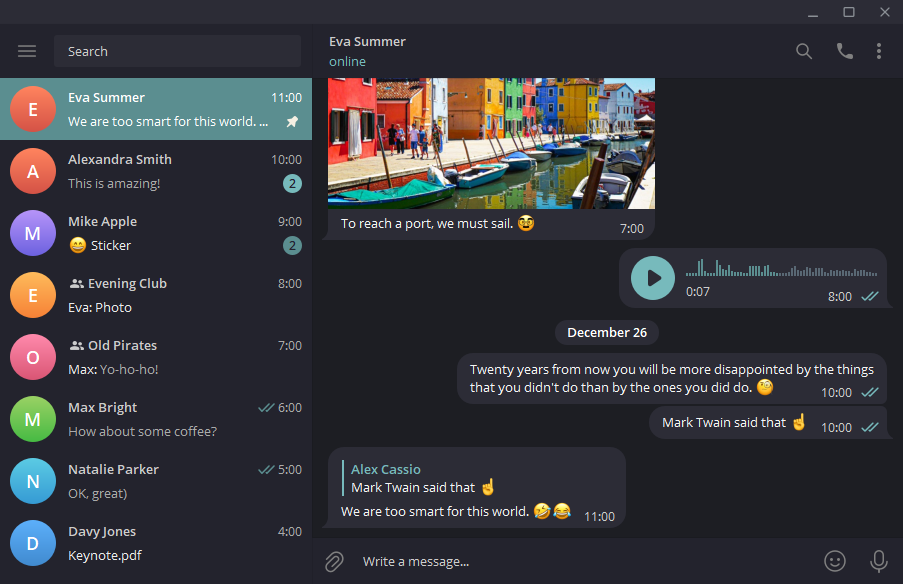
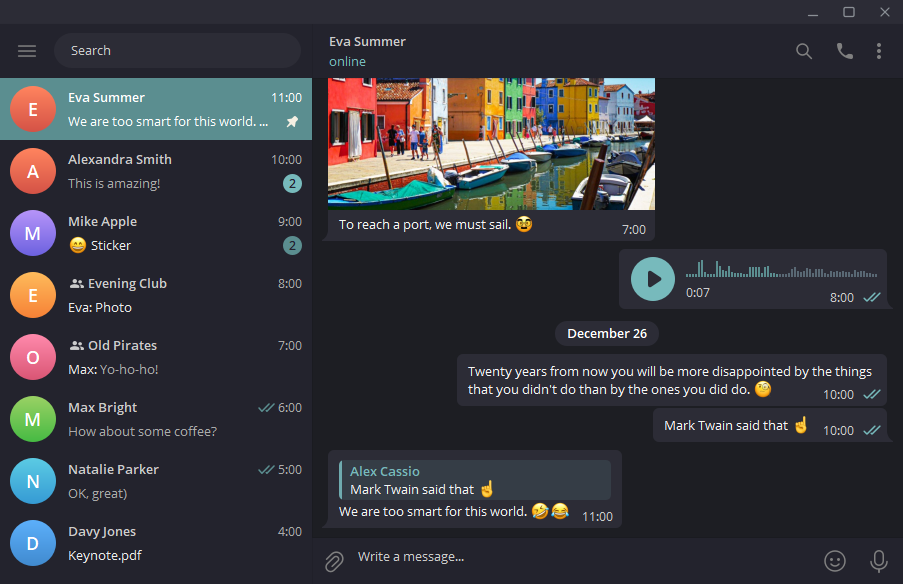
feat: update Cream, Mint, Rose colors

diff --git a/src/themes.ts b/src/themes.ts
@@ -27,41 +27,41 @@ const themes: Theme[] = [{
     ...common,
     MAIN_DARK: "#908B67",
     MAIN: "#B9B384",
-    MAIN_OVERLAY: "#B9B3844C",
+    MAIN_OVERLAY: "#B9B38426",
     MAIN_LIGHT: "#D0CA94",
-    GRAY_DARK: "#191919",
-    GRAY_DARK_TP: "#19191901",
-    GRAY: "#222222",
-    GRAY_LIGHT: "#272727",
-    GRAY_SELECTION: "#2C2C2C"
+    GRAY_DARK: "#1B1A17",
+    GRAY_DARK_TP: "#1B1A1701",
+    GRAY: "#201F1B",
+    GRAY_LIGHT: "#27261F",
+    GRAY_SELECTION: "#2C2B26"
   }
 }, {
-  name: "Green",
+  name: "Mint",
   constants: {
     ...common,
     MAIN_DARK: "#4B8B60",
     MAIN: "#63B97F",
     MAIN_OVERLAY: "#63B97F4C",
     MAIN_LIGHT: "#7AD08F",
-    GRAY_DARK: "#19191A",
-    GRAY_DARK_TP: "#19191A01",
-    GRAY: "#212122",
-    GRAY_LIGHT: "#2A2A2C",
-    GRAY_SELECTION: "#2F2F31"
+    GRAY_DARK: "#1B1B1C",
+    GRAY_DARK_TP: "#1B1B1C01",
+    GRAY: "#212121",
+    GRAY_LIGHT: "#2A2A2A",
+    GRAY_SELECTION: "#313131"
   }
 }, {
-  name: "Red",
+  name: "Rose",
   constants: {
     ...common,
-    MAIN_DARK: "#B35843",
+    MAIN_DARK: "#A95244",
     MAIN: "#FF7B5D",
-    MAIN_OVERLAY: "#FF7B5D4C",
+    MAIN_OVERLAY: "#FF7B5D26",
     MAIN_LIGHT: "#FF926D",
-    GRAY_DARK: "#262A2E",
-    GRAY_DARK_TP: "#262A2E01",
-    GRAY: "#2B3034",
-    GRAY_LIGHT: "#2F353A",
-    GRAY_SELECTION: "#33393E"
+    GRAY_DARK: "#1F1A18",
+    GRAY_DARK_TP: "#1F1A1801",
+    GRAY: "#26211E",
+    GRAY_LIGHT: "#2B2623",
+    GRAY_SELECTION: "#322B28"
   }
 }];
 

diff --git a/README.md b/README.md
@@ -20,11 +20,11 @@
   <a href="./meta/cream.png">
     <img src="./meta/cream.png" alt="cream theme" width="48%">
   </a>
-  <a href="./meta/green.png">
-    <img src="./meta/green.png" alt="green theme" width="48%">
+  <a href="./meta/mint.png">
+    <img src="./meta/mint.png" alt="mint theme" width="48%">
   </a>
-  <a href="./meta/red.png">
-    <img src="./meta/red.png" alt="red theme" width="48%">
+  <a href="./meta/rose.png">
+    <img src="./meta/rose.png" alt="rose theme" width="48%">
   </a>
   <a href="https://t.me/addtheme/vanilla_dark_aqua">
     <img src="https://img.shields.io/badge/install-aqua_theme-77BABC.svg" alt="install aqua theme">
@@ -32,11 +32,11 @@
   <a width="23%" href="https://t.me/addtheme/vanilla_dark_cream">
     <img src="https://img.shields.io/badge/install-cream_theme-B9B384.svg" alt="install cream theme">
   </a>
-  <a width="23%" href="https://t.me/addtheme/vanilla_dark_green">
-    <img src="https://img.shields.io/badge/install-green_theme-63B97F.svg" alt="install green theme">
+  <a width="23%" href="https://t.me/addtheme/vanilla_dark_mint">
+    <img src="https://img.shields.io/badge/install-mint_theme-63B97F.svg" alt="install mint theme">
   </a>
-  <a width="23%" href="https://t.me/addtheme/vanilla_dark_red">
-    <img src="https://img.shields.io/badge/install-red_theme-FF7B5D.svg" alt="install red theme">
+  <a width="23%" href="https://t.me/addtheme/vanilla_dark_rose">
+    <img src="https://img.shields.io/badge/install-rose_theme-FF7B5D.svg" alt="install rose theme">
   </a>
 </div>
 
